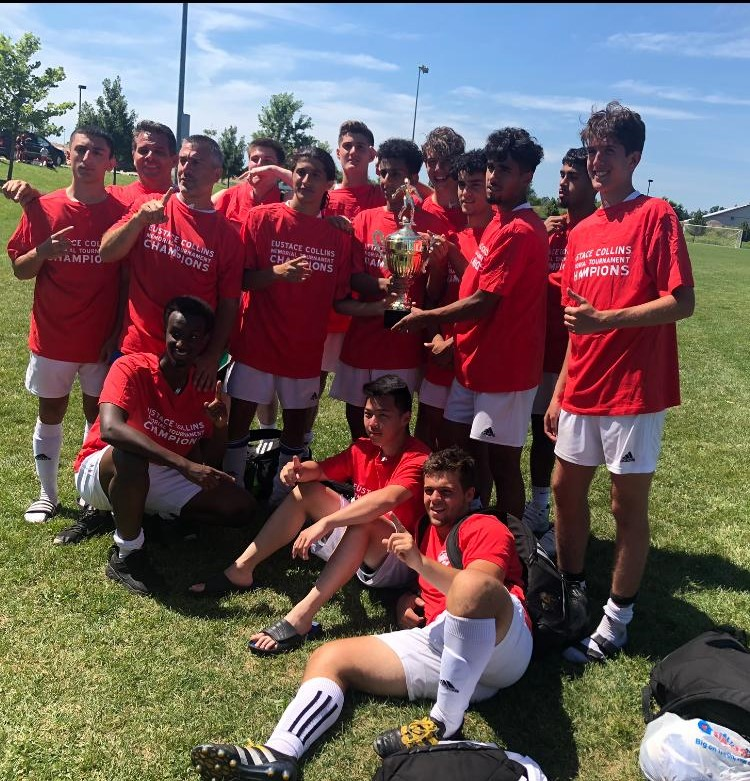
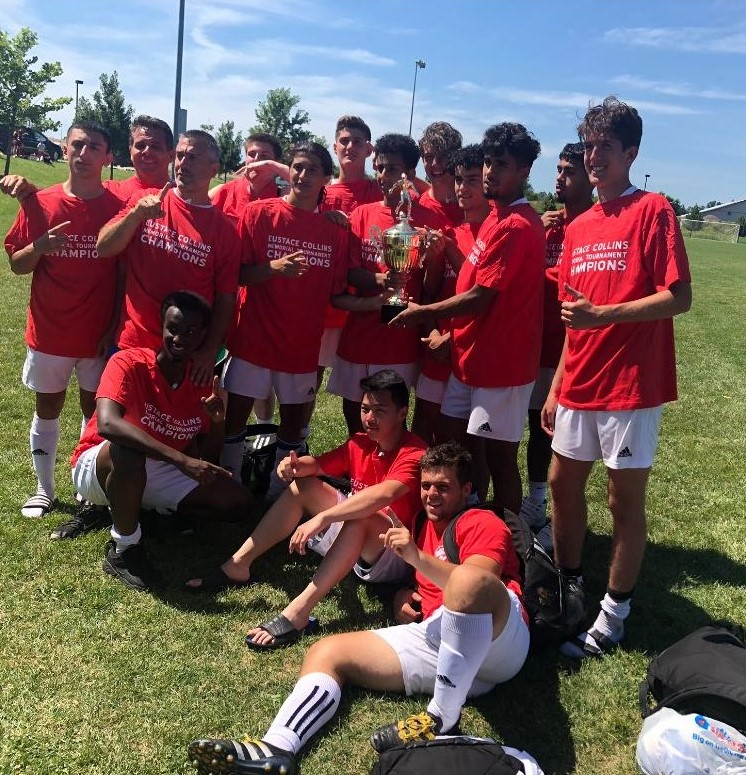
cropped soccer image, added website to projects

diff --git a/src/components/ProjectContainer/types.ts b/src/components/ProjectContainer/types.ts
@@ -8,7 +8,8 @@ export type IBlogTags = {
 
 export enum TagColor {
   Java = "orange",
-  Python = "blue",
+  Python = "teal",
+  React = "blue",
 };
 
 export type TagColorKeys = keyof typeof TagColor;
